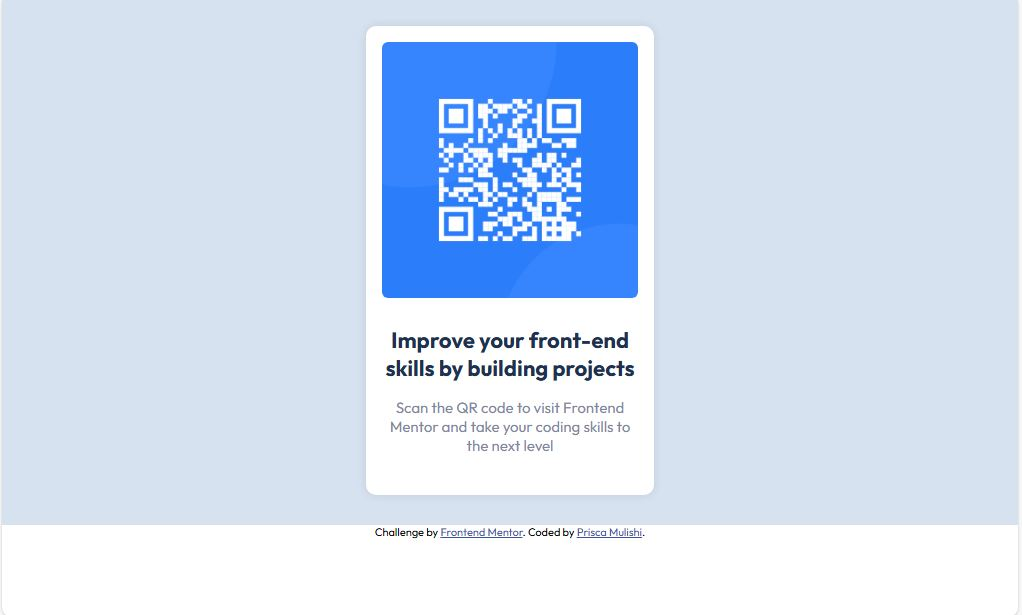
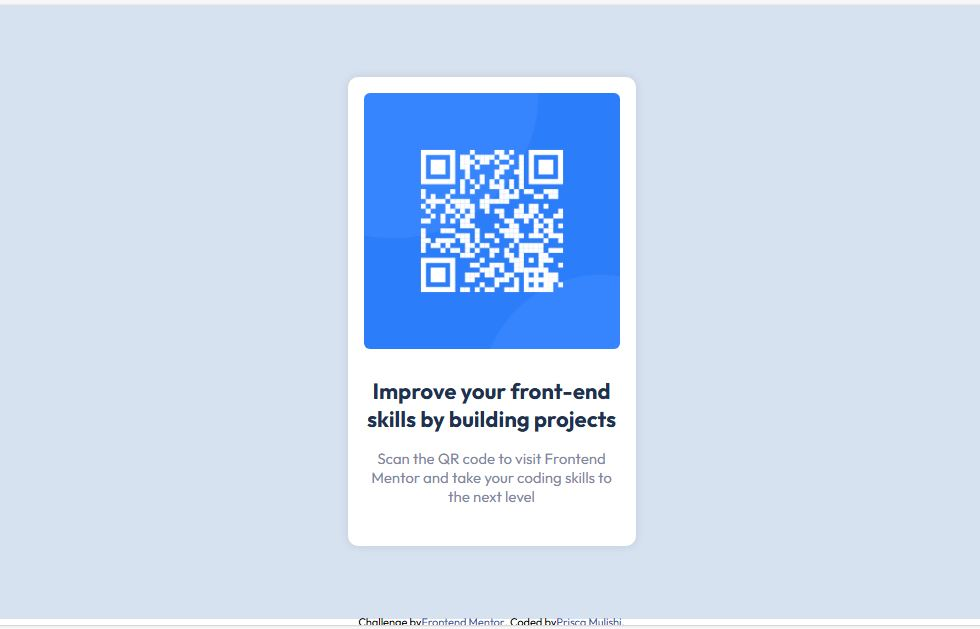
style.css updated

Changed region(s): [[0.0, 0.0, 1.0, 1.0]]

diff --git a/index.html b/index.html
@@ -12,25 +12,27 @@
 
 <body>
 
-  <main class="container">
-    <div class="box">
-      <div class="image">
-        <img src="images/image-qr-code.png" alt="image of qr code">
-      </div>
-
-      <div class="content">
-        <h1><strong>Improve your front-end skills by building projects</strong></h1>
-        <p>Scan the QR code to visit Frontend Mentor and take your coding skills to the next level</p>
-      </div>
-
-    </div>
-  </main>
+    <main class="container">
+      <div class="box">
+        <div class="image">
+          <img src="images/image-qr-code.png" alt="image of qr code">
+        </div>
   
+        <div class="content">
+          <h1><strong>Improve your front-end skills by building projects</strong></h1>
+          <p>Scan the QR code to visit Frontend Mentor and take your coding skills to the next level</p>
+        </div>
   
-  <footer class="attribution">
-    Challenge by <a href="https://www.frontendmentor.io?ref=challenge" target="_blank">Frontend Mentor</a>. 
-    Coded by <a href="#">Prisca Mulishi</a>.
-  </div>
+      </div>
+    </main>
+    
+    
+    <footer class="attribution">
+      Challenge by <a href="https://www.frontendmentor.io?ref=challenge" target="_blank">Frontend Mentor</a>. 
+      Coded by <a href="#">Prisca Mulishi</a>.
+    </footer>
+
+  
 </body>
 
 </html>

diff --git a/style.css b/style.css
@@ -12,16 +12,19 @@ body{
     height: 100vh;
     margin: 0;
     font-family: 'Outfit', sans-serif;
-    font-optical-sizing: auto;
+    /*font-optical-sizing: auto;*/
+    display: flex;
+    flex-direction: column;
 }
 
 main.container {
+   /* height: 95%;*/
+    flex: 1;
     display: flex;
     justify-content: center;
     align-items: center;
-    height: 100%;
     background-color: hsl(212, 45%, 89%);/*background-color: #d0dbe7;*/
-    padding: 30px;
+    padding: 10px;
 }
 
 .box {
@@ -72,7 +75,12 @@ p{
 }
 
 footer.attribution { 
-    font-size: 11px; text-align: center; 
+    font-size: 11px; 
+    text-align: center; 
+    height: 1%;
+    display: flex;
+    justify-content: center;
+    align-items: center;
 }
 
 footer.attribution a { 
@@ -95,7 +103,7 @@ footer.attribution a {
 @media only screen and (orientation: landscape) {
     body {
         width: 100%;
-        height: auto;
+        
     }
     
 }
@@ -104,7 +112,7 @@ footer.attribution a {
 @media only screen and (orientation: portrait) {
     body {
         width: 100%;
-        height: auto;
+        
     }
     
 }
